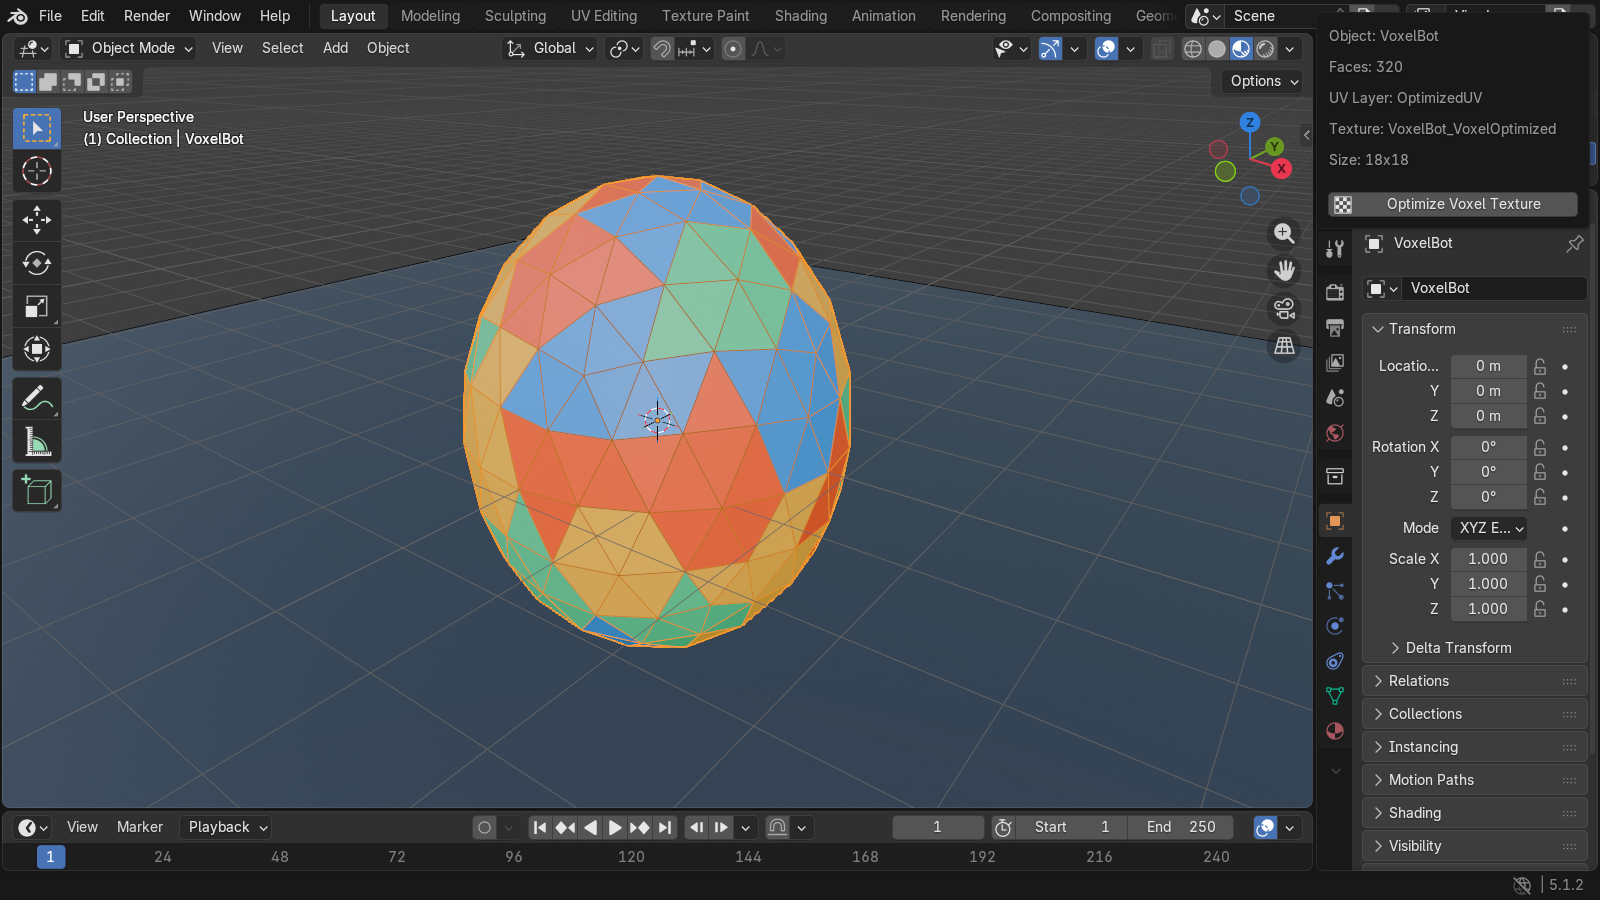
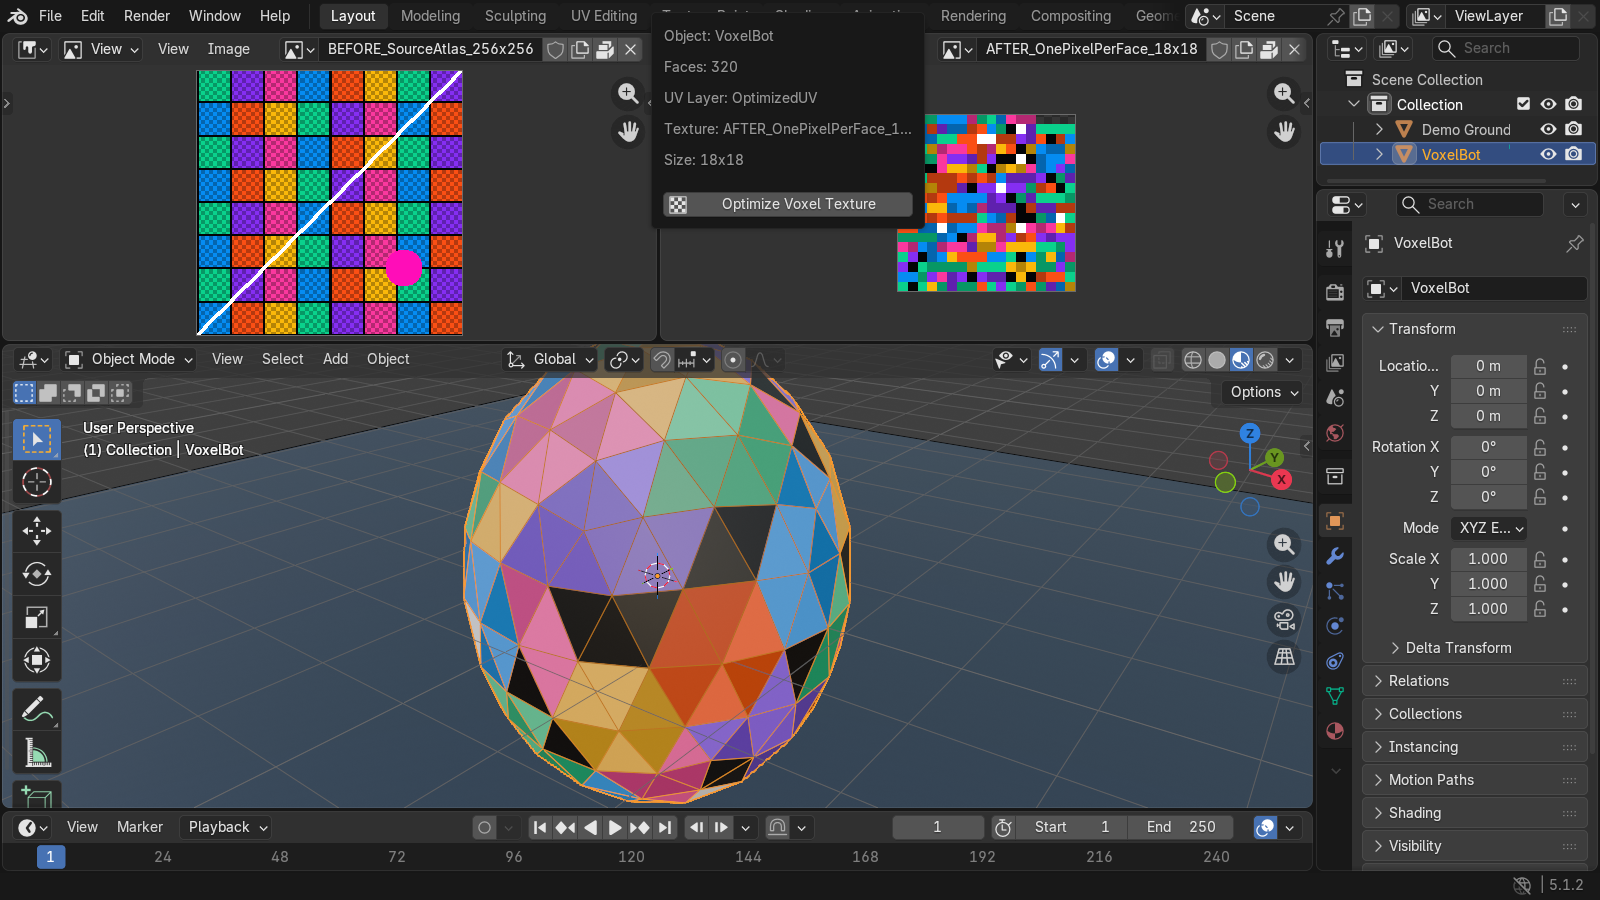
Show texture atlas before and after

diff --git a/README.md b/README.md
@@ -12,9 +12,9 @@ A Blender 4.0+ add-on that rebakes a voxel or retopologized mesh's texture down 
 
 ## Actual add-on in Blender
 
-![Blender 5.1 showing a colorful optimized mesh and the Voxel Texture Optimizer sidebar reporting its 320 faces, OptimizedUV layer, and new 18 by 18 texture](https://raw.githubusercontent.com/Omegadarling/VoxelTextureMatcher/main/docs/images/blender-screenshot.png)
+![Blender 5.1 comparing the original 256 by 256 source atlas with the generated 18 by 18 one-pixel-per-face texture above the remapped model](https://raw.githubusercontent.com/Omegadarling/VoxelTextureMatcher/main/docs/images/blender-screenshot.png?v=2)
 
-*Actual Blender capture after running the add-on in Minimal mode: the sidebar identifies the generated `OptimizedUV` layer and the 18×18 one-pixel-per-face texture.*
+*Actual Blender capture after running Minimal mode. The flat Image Editors show the 256×256 source atlas on the left and the generated 18×18 texture on the right; below them, the model keeps its sampled face colors through the new `OptimizedUV` layer.*
 
 Voxel models exported from tools like MagicaVoxel often carry a texture far larger than they need — every face is a flat color, but it's sampled from a big atlas. This add-on samples the color at each face's UV center, packs those colors into the smallest square texture that fits, and remaps every face to its own single pixel.
 
